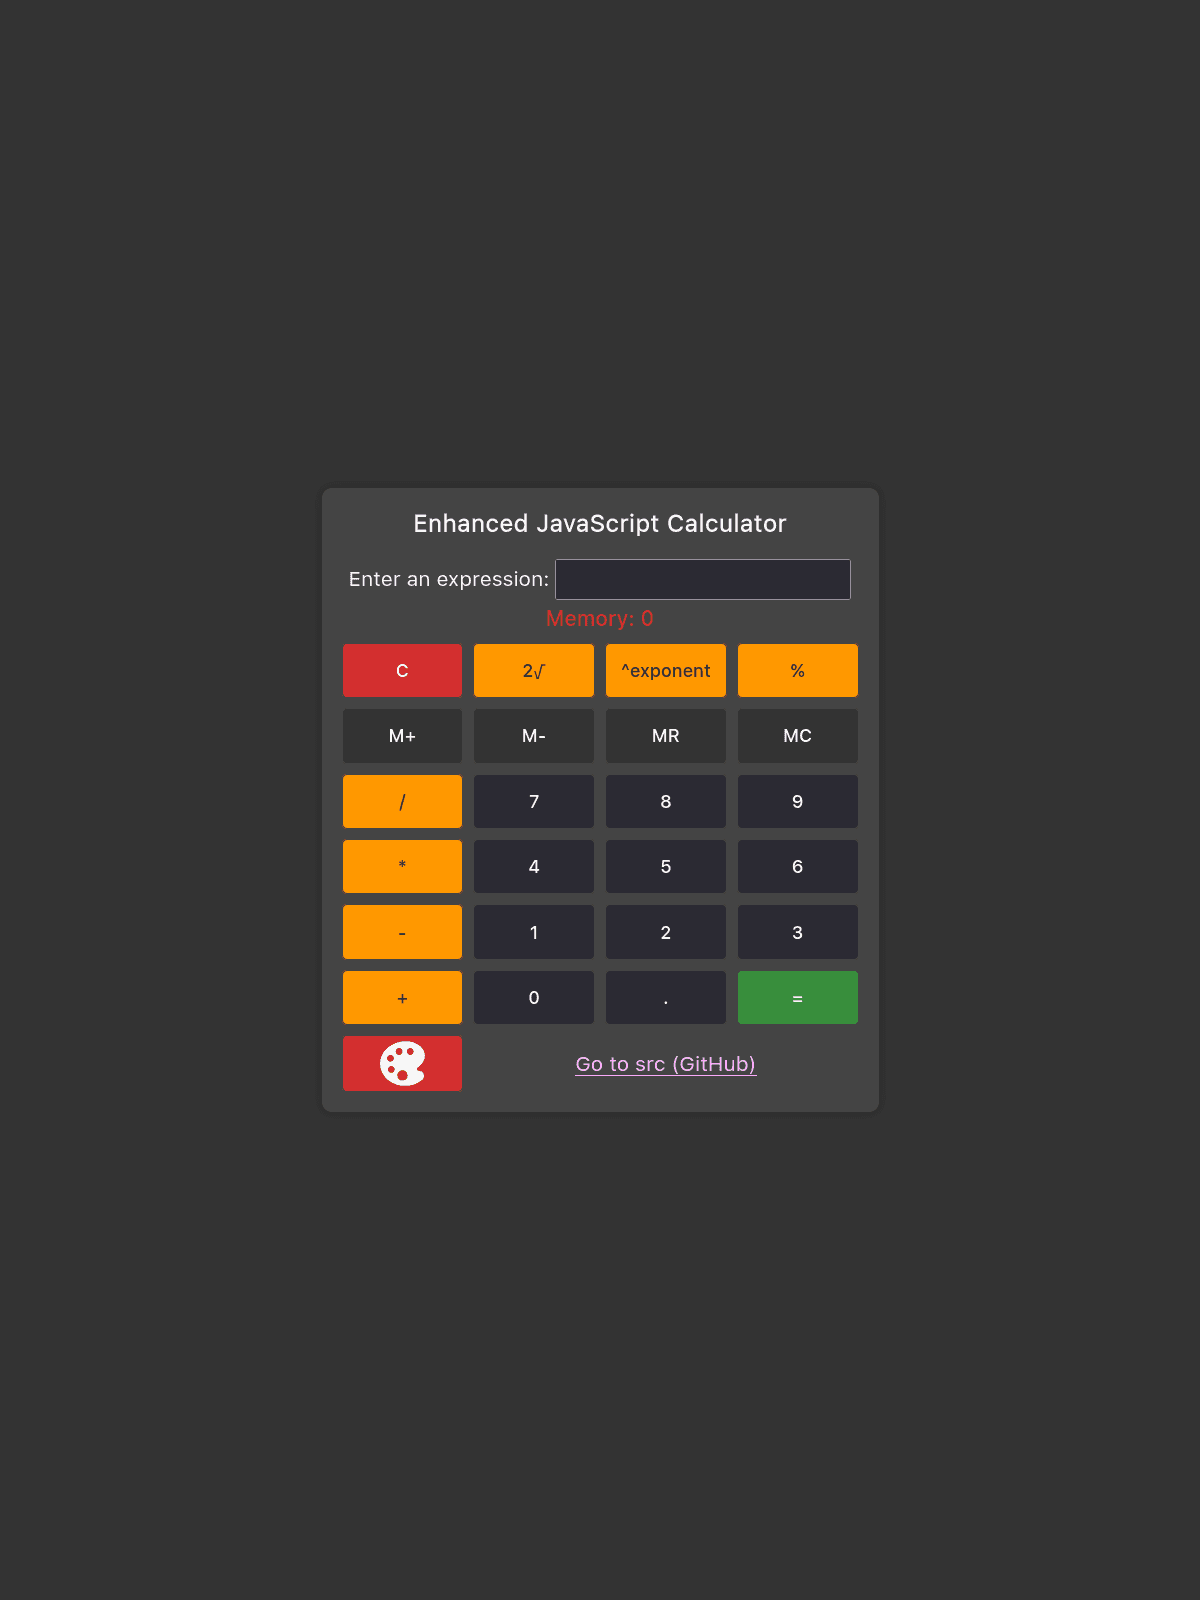
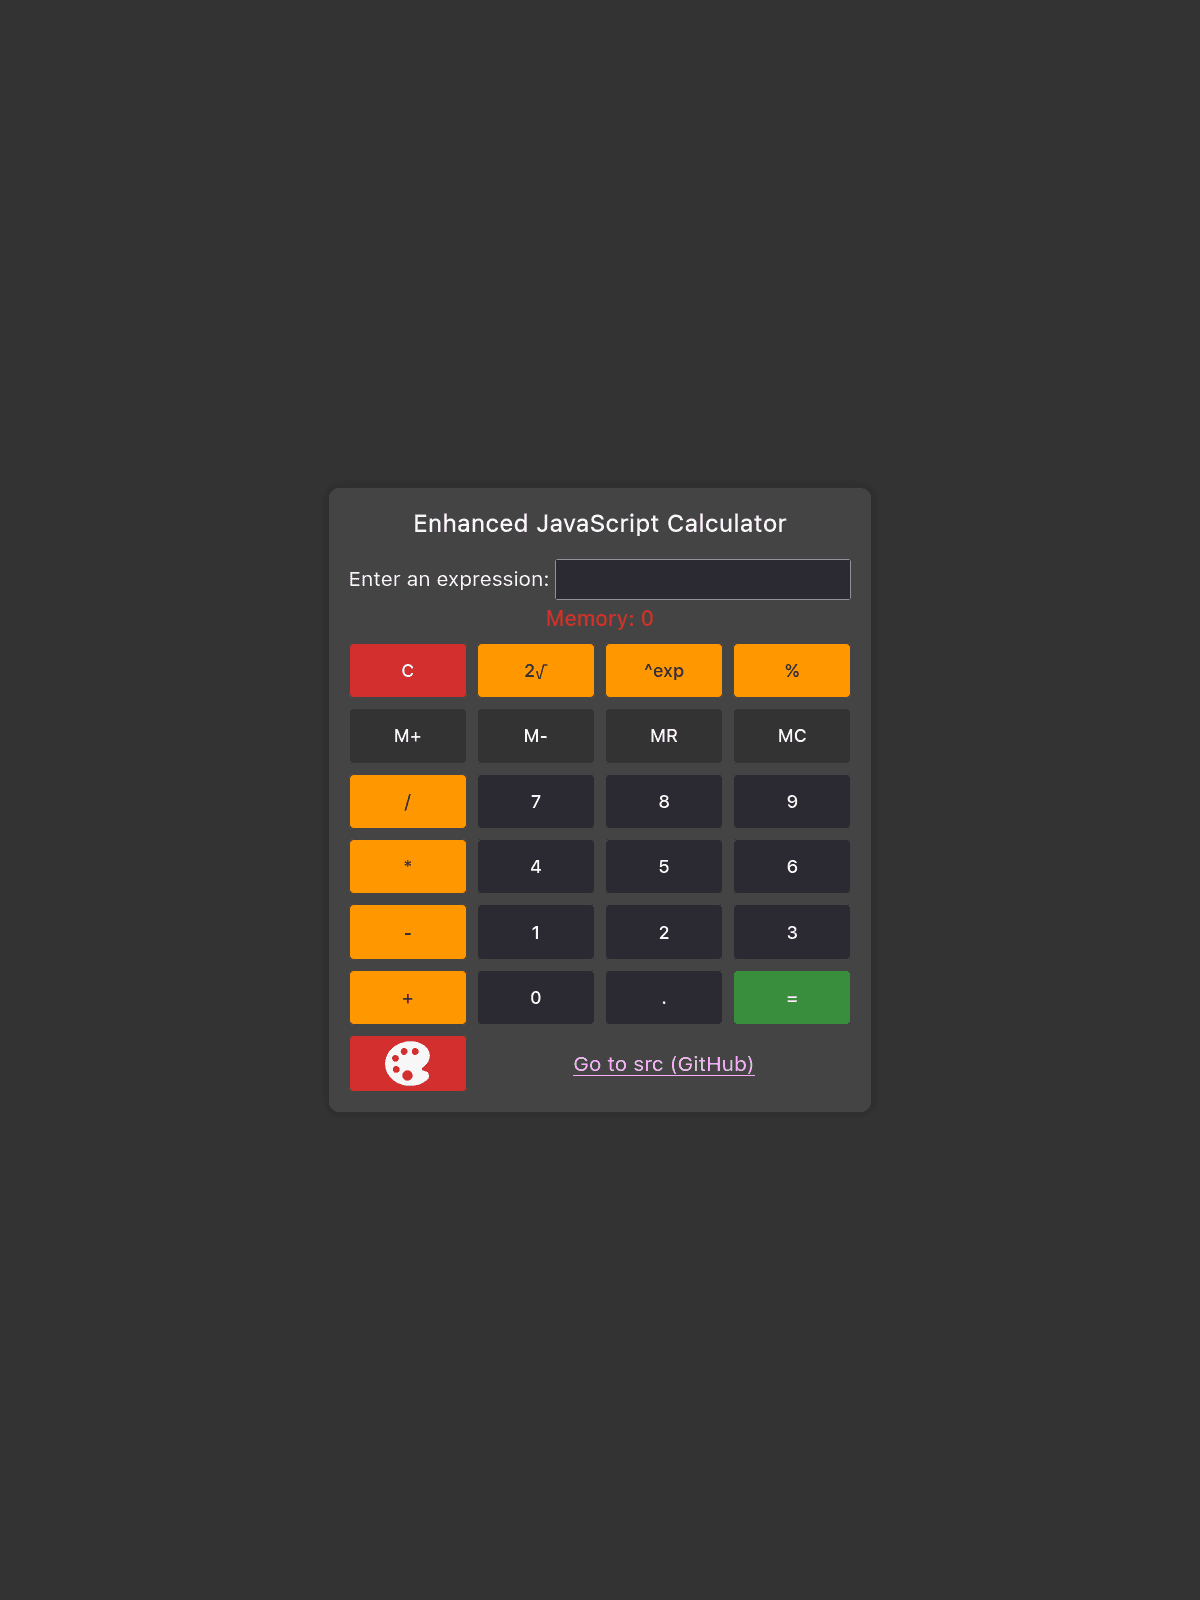
Updates

diff --git a/index.html b/index.html
@@ -1,1 +1,1 @@
-<!doctype html><html lang=en><head><meta charset=UTF-8><meta name=viewport content="width=device-width,initial-scale=1"><title>Calculator app</title><meta name=description content="This is a modern calculator built using HTML, CSS, and JavaScript. It features an adaptive design that responds to system color scheme preferences and provides a seamless user experience with enhanced functionalities."><link rel=icon href=./favicon.ico sizes=32x32 type=image/x-icon><link rel=icon href=./favicon.svg type=image/svg+xml><link rel=icon href=./favicon-16x16.png sizes=16x16 type=image/png><link rel=icon href=./favicon-32x32.png sizes=32x32 type=image/png><link rel=icon href=./favicon-48x48.png sizes=48x48 type=image/png><link rel=apple-touch-icon href=./apple-touch-icon.png type=image/png><link rel=manifest href=./manifest.webmanifest><link rel=preload href=./main.css as=style><script src=./main.js defer=defer></script><link rel=preload href=./fonts/sft_regular.woff2 as=font type=font/woff2 crossorigin><link rel=preload href=./fonts/sft_medium.woff2 as=font type=font/woff2 crossorigin><link rel=preload href=./fonts/firacode_regular.woff2 as=font type=font/woff2 crossorigin><link rel=stylesheet href=./main.css></head><body><header><h1>Simple Calculator</h1></header><section class=calculator-body><h2>Enhanced JavaScript Calculator</h2><label for=display>Enter an expression:</label> <input id=display autofocus><div class=memory-section><span class=memory-section__name>Memory:</span> <span id=memory-section__value>0</span></div><section class=buttons-section><button class=clear>C</button> <button class=operator>2√</button> <button class=operator>^exponent</button> <button class=operator>%</button> <button class=memory-btn>M+</button> <button class=memory-btn>M-</button> <button class=memory-btn>MR</button> <button class=memory-btn>MC</button> <button class=operator>/</button> <button>7</button> <button>8</button> <button>9</button> <button class=operator>*</button> <button>4</button> <button>5</button> <button>6</button> <button class=operator>-</button> <button>1</button> <button>2</button> <button>3</button> <button class=operator>+</button> <button>0</button> <button>.</button> <button class=equal>=</button> <button aria-label="Toggle theme"></button> <a href="https://github.com/theEvilGrinch/js-calculator?tab=readme-ov-file" class=back-to-github>Go to src (GitHub)</a></section></section><dialog class=js-errorDialog><button><span aria-hidden=true>Close</span></button><p>Input error! Please enter a valid value, only numbers and mathematical operators available!</p></dialog></body></html>
+<!doctype html><html lang=en><head><meta charset=UTF-8><meta name=viewport content="width=device-width,initial-scale=1"><title>Calculator app</title><meta name=description content="This is a modern calculator built using HTML, CSS, and JavaScript. It features an adaptive design that responds to system color scheme preferences and provides a seamless user experience with enhanced functionalities."><link rel=icon href=./favicon.ico sizes=32x32 type=image/x-icon><link rel=icon href=./favicon.svg type=image/svg+xml><link rel=icon href=./favicon-16x16.png sizes=16x16 type=image/png><link rel=icon href=./favicon-32x32.png sizes=32x32 type=image/png><link rel=icon href=./favicon-48x48.png sizes=48x48 type=image/png><link rel=apple-touch-icon href=./apple-touch-icon.png type=image/png><link rel=manifest href=./manifest.webmanifest><link rel=preload href=./main.css as=style><script src=./main.js defer=defer></script><link rel=preload href=./fonts/sft_regular.woff2 as=font type=font/woff2 crossorigin><link rel=preload href=./fonts/sft_medium.woff2 as=font type=font/woff2 crossorigin><link rel=preload href=./fonts/firacode_regular.woff2 as=font type=font/woff2 crossorigin><link rel=stylesheet href=./main.css></head><body><header><h1>Simple Calculator</h1></header><section class=calculator-body><h2>Enhanced JavaScript Calculator</h2><label for=display>Enter an expression:</label> <input id=display autofocus><div class=memory-section><span class=memory-section__name>Memory:</span> <span id=memory-section__value>0</span></div><section class=buttons-section><button class=clear>C</button> <button class=operator>2√</button> <button class=operator>^exp</button> <button class=operator>%</button> <button class=memory-btn>M+</button> <button class=memory-btn>M-</button> <button class=memory-btn>MR</button> <button class=memory-btn>MC</button> <button class=operator>/</button> <button>7</button> <button>8</button> <button>9</button> <button class=operator>*</button> <button>4</button> <button>5</button> <button>6</button> <button class=operator>-</button> <button>1</button> <button>2</button> <button>3</button> <button class=operator>+</button> <button>0</button> <button>.</button> <button class=equal>=</button> <button aria-label="Toggle theme"></button> <a href="https://github.com/theEvilGrinch/js-calculator?tab=readme-ov-file" class=back-to-github>Go to src (GitHub)</a></section></section><dialog class=js-errorDialog><button><span aria-hidden=true>Close</span></button><p>Input error! Please enter a valid value, only numbers and mathematical operators available!</p></dialog></body></html>

diff --git a/main.js b/main.js
@@ -1,1 +1,1 @@
-"serviceWorker"in navigator&&navigator.serviceWorker.register("./service-worker.js").catch(e=>{});const t=document.getElementById("display"),c=document.getElementById("memory-section__value"),a=document.querySelector(".js-errorDialog"),s=document.querySelectorAll("button"),d={0:{action:()=>o(0)},1:{action:()=>o(1)},2:{action:()=>o(2)},3:{action:()=>o(3)},4:{action:()=>o(4)},5:{action:()=>o(5)},6:{action:()=>o(6)},7:{action:()=>o(7)},8:{action:()=>o(8)},9:{action:()=>o(9)},C:{action:()=>i()},"/":{action:()=>o("/")},"*":{action:()=>o("*")},"+":{action:()=>o("+")},"-":{action:()=>o("-")},".":{action:()=>o(".")},"=":{action:()=>r()},"2\u221A":{action:()=>o("\u221A")},"^exponent":{action:()=>o("^")},"%":{action:()=>o("%")},"M+":{action:()=>m()},"M-":{action:()=>y()},MR:{action:()=>g()},MC:{action:()=>u()},Close:{action:()=>{i(),a.close()}}};s.forEach(e=>{e.addEventListener("click",()=>{e.getAttribute("aria-label")==="Toggle theme"?f():d[e.textContent].action()})});let n=0;function o(e){t.value+=e}function i(){t.value=""}function u(){c.innerText="0",n=0}function r(){try{const e=t.value;if(!e.trim()||!/^[\d+\-*/().\s^%√]+$/.test(e)){a.showModal();return}const l=e.replace(/√(\d+)/g,"Math.sqrt($1)").replace(/(\d+)\^(\d+)/g,"Math.pow($1, $2)").replace(/(\d+)%/g,"($1 / 100)");t.value=Function("return "+l)()}catch{a.showModal()}}function m(){r();const e=parseFloat(t.value);e&&(n+=e,c.innerText=n,c.style.color="#388e3c")}function y(){r();const e=parseFloat(t.value);e&&(n-=e,c.innerText=n,c.style.color="#ff9800")}function g(){t.value+=n}t.addEventListener("keydown",function(e){(e.code==="Enter"||e.code==="NumpadEnter")&&t.value!==""&&r()}),document.addEventListener("keydown",function(e){e.code==="Escape"&&(i(),a.close())});function f(){window.matchMedia("(prefers-color-scheme: dark)").matches?document.body.classList.toggle("light-mode"):document.body.classList.toggle("dark-mode")}
+"serviceWorker"in navigator&&navigator.serviceWorker.register("./service-worker.js").catch(e=>{});const t=document.getElementById("display"),c=document.getElementById("memory-section__value"),a=document.querySelector(".js-errorDialog"),s=document.querySelectorAll("button"),d={0:{action:()=>o(0)},1:{action:()=>o(1)},2:{action:()=>o(2)},3:{action:()=>o(3)},4:{action:()=>o(4)},5:{action:()=>o(5)},6:{action:()=>o(6)},7:{action:()=>o(7)},8:{action:()=>o(8)},9:{action:()=>o(9)},C:{action:()=>i()},"/":{action:()=>o("/")},"*":{action:()=>o("*")},"+":{action:()=>o("+")},"-":{action:()=>o("-")},".":{action:()=>o(".")},"=":{action:()=>r()},"2\u221A":{action:()=>o("\u221A")},"^exp":{action:()=>o("^")},"%":{action:()=>o("%")},"M+":{action:()=>m()},"M-":{action:()=>y()},MR:{action:()=>g()},MC:{action:()=>u()},Close:{action:()=>{i(),a.close()}}};s.forEach(e=>{e.addEventListener("click",()=>{e.getAttribute("aria-label")==="Toggle theme"?f():d[e.textContent].action()})});let n=0;function o(e){t.value+=e}function i(){t.value=""}function u(){c.innerText="0",n=0}function r(){try{const e=t.value;if(!e.trim()||!/^[\d+\-*/().\s^%√]+$/.test(e)){a.showModal();return}const l=e.replace(/√(\d+)/g,"Math.sqrt($1)").replace(/(\d+)\^(\d+)/g,"Math.pow($1, $2)").replace(/(\d+)%/g,"($1 / 100)");t.value=Function("return "+l)()}catch{a.showModal()}}function m(){r();const e=parseFloat(t.value);e&&(n+=e,c.innerText=n,c.style.color="#388e3c")}function y(){r();const e=parseFloat(t.value);e&&(n-=e,c.innerText=n,c.style.color="#ff9800")}function g(){t.value+=n}t.addEventListener("keydown",function(e){(e.code==="Enter"||e.code==="NumpadEnter")&&t.value!==""&&r()}),document.addEventListener("keydown",function(e){e.code==="Escape"&&(i(),a.close())});function f(){window.matchMedia("(prefers-color-scheme: dark)").matches?document.body.classList.toggle("light-mode"):document.body.classList.toggle("dark-mode")}

diff --git a/service-worker.js b/service-worker.js
@@ -1,1 +1,1 @@
-const n="sw-cache-1746465810617",i=["/","/index.html","/no-data-error.html","/main.css","/main.js","/fonts/firacode_regular.woff2","/fonts/sft_regular.woff2","/fonts/sft_medium.woff2","/apple-touch-icon.png","/color-palette.svg","/favicon.ico","/favicon.svg","/favicon-16x16.png","/favicon-32x32.png","/favicon-48x48.png","/icon-192.png","/icon-512.png","/icon-mask.png","/manifest.webmanifest"];self.addEventListener("install",e=>{e.waitUntil(caches.open(n).then(t=>t.addAll(i)).catch(t=>{})),self.skipWaiting()}),self.addEventListener("activate",e=>{try{e.waitUntil(caches.keys().then(t=>{const a=[];for(const r of t)r!==n&&a.push(caches.delete(r));return Promise.all(a)}).then(()=>self.clients.claim()))}catch{}});async function h(e,t){try{const a=await fetch(e,{cache:"no-store"});if(!a.ok)return!1;const r=a.headers.get("ETag"),s=a.headers.get("Last-Modified"),c=t?t.headers.get("ETag"):null,o=t?t.headers.get("Last-Modified"):null;return!r&&!s?!0:r&&r!==c||s&&s!==o}catch{return!1}}async function f(e){const t=await caches.open(n),a=await fetch(e,{cache:"no-store"});return a.ok&&e.method==="GET"&&await t.put(e,a.clone()),a}self.addEventListener("fetch",e=>{e.respondWith((async()=>{try{const t=await caches.match(e.request);if(!t)try{const r=await fetch(e.request,{cache:"no-store"});return r.ok&&e.request.method==="GET"&&await(await caches.open(n)).put(e.request,r.clone()),r}catch{return Response.redirect("no-data-error.html",302)}if(!await h(e.request,t))return t;try{return await f(e.request)}catch{return t}}catch{return Response.redirect("no-data-error.html",302)}})())});
+const n="sw-cache-1747572576119",i=["/","/index.html","/404.html","/no-data-error.html","/main.css","/main.js","/fonts/firacode_regular.woff2","/fonts/sft_regular.woff2","/fonts/sft_medium.woff2","/apple-touch-icon.png","/color-palette.svg","/favicon.ico","/favicon.svg","/favicon-16x16.png","/favicon-32x32.png","/favicon-48x48.png","/icon-192.png","/icon-512.png","/icon-mask.png","/screenshot-desktop.png","/screenshot-mobile.png","/screenshot-mobile-light.png","/screenshot-tablet.png","/manifest.webmanifest"];self.addEventListener("install",e=>{e.waitUntil(caches.open(n).then(t=>t.addAll(i)).catch(t=>{})),self.skipWaiting()}),self.addEventListener("activate",e=>{try{e.waitUntil(caches.keys().then(t=>{const a=[];for(const s of t)s!==n&&a.push(caches.delete(s));return Promise.all(a)}).then(()=>self.clients.claim()))}catch{}});async function h(e,t){try{const a=await fetch(e,{cache:"no-store"});if(!a.ok)return!1;const s=a.headers.get("ETag"),r=a.headers.get("Last-Modified"),c=t?t.headers.get("ETag"):null,o=t?t.headers.get("Last-Modified"):null;return!s&&!r?!0:s&&s!==c||r&&r!==o}catch{return!1}}async function f(e){const t=await caches.open(n),a=await fetch(e,{cache:"no-store"});return a.ok&&e.method==="GET"&&await t.put(e,a.clone()),a}self.addEventListener("fetch",e=>{e.respondWith((async()=>{try{const t=await caches.match(e.request);if(!t)try{const s=await fetch(e.request,{cache:"no-store"});return s.ok&&e.request.method==="GET"&&await(await caches.open(n)).put(e.request,s.clone()),s}catch{return Response.redirect("no-data-error.html",302)}if(!await h(e.request,t))return t;try{return await f(e.request)}catch{return t}}catch{return Response.redirect("no-data-error.html",302)}})())});
